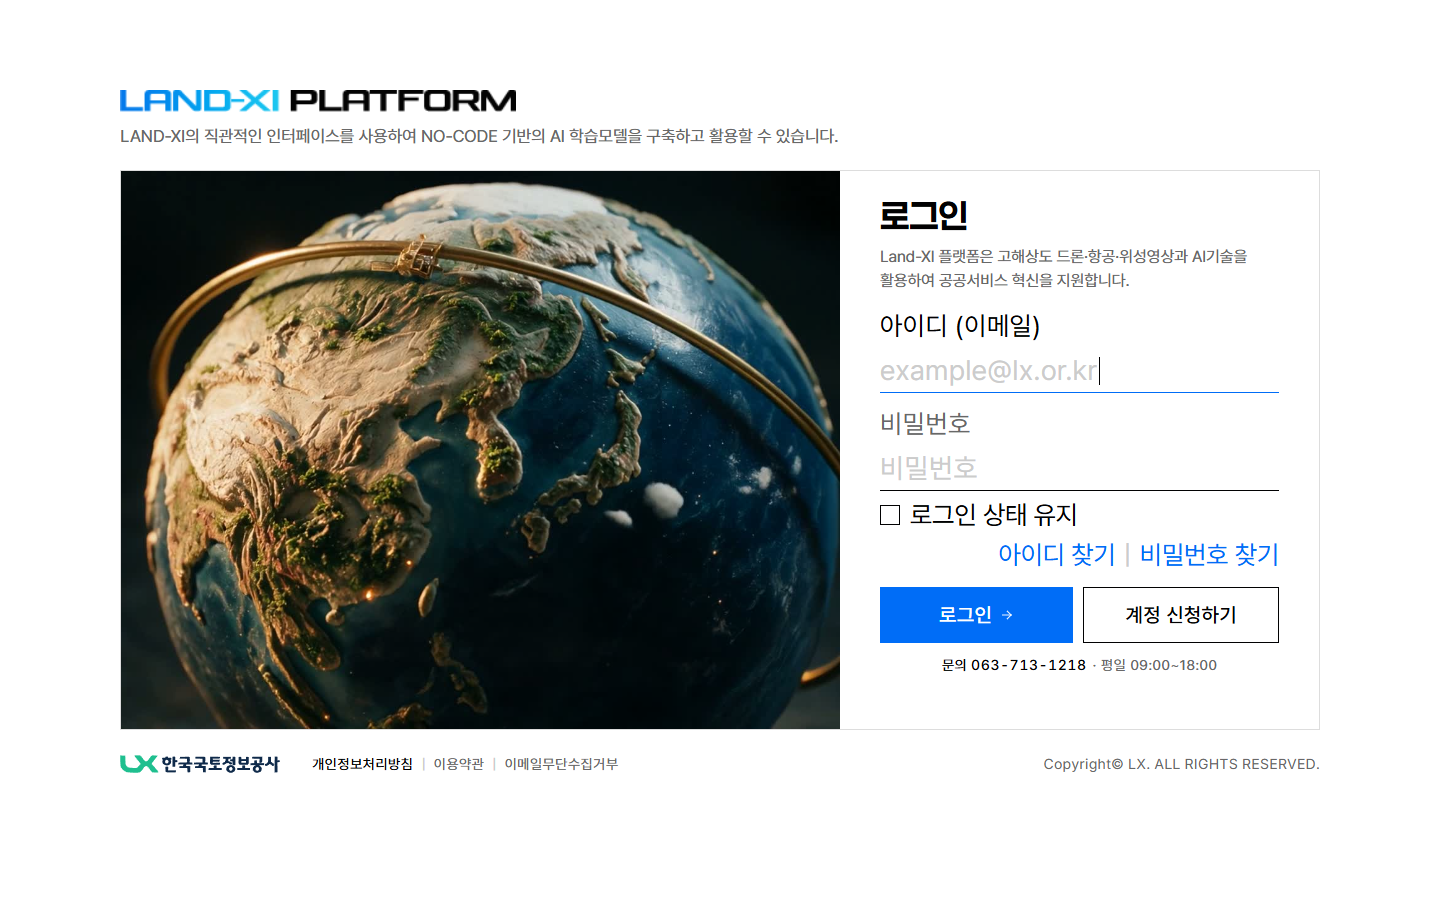
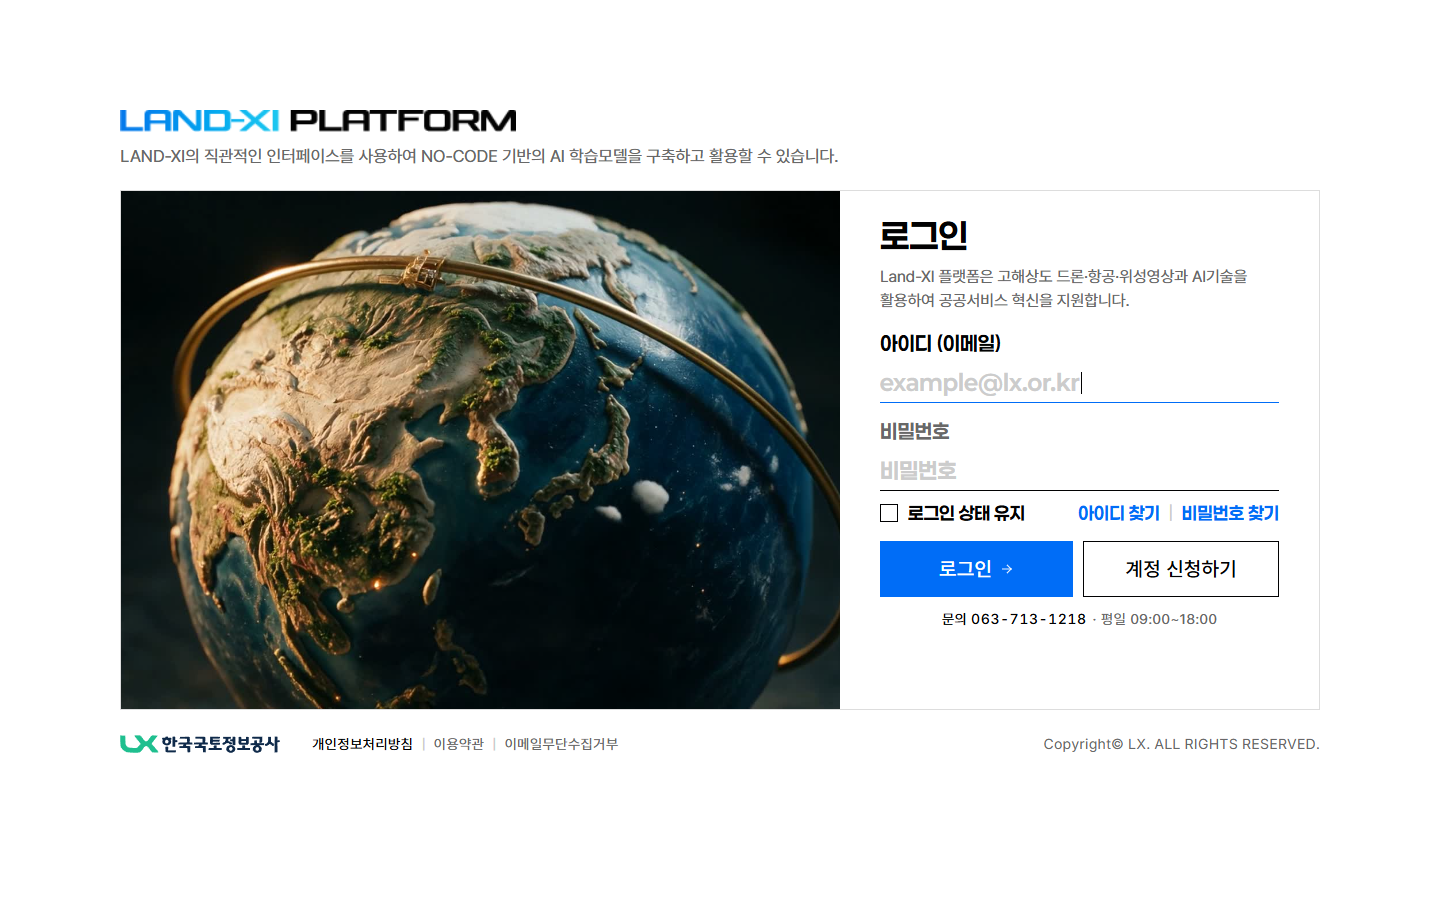
feat(login): 7차 — 폼 글자를 로그인과 같은 Paperlogy 700 으로, 포인트 축소(라벨 20·입력 22·옵션/링크 18)·카드 520
- 라벨 아이디 (이메일)/비밀번호 Pretendard 26 → Paperlogy 700 20/24
- 입력·플레이스홀더 Pretendard 28 → Paperlogy 700 22(높이 44 → 40, 포커스 룰 top 71)
- 로그인 상태 유지 · 아이디 찾기 | 비밀번호 찾기 26 → Paperlogy 700 18/24 — 399 폭 한 줄(옵션 줄 2줄 → 1줄), 체크 박스 18
- 제목 로그인 34 · 버튼 Pretendard 20/56 그대로
- 카드 1200×560 → 520(y 190–710 중앙 유지 · 1920×1200 y 340 · 1024 960×520), 우 패널 예산 438/518
- 마스터 B5-Login.dc.html + renders/B5-Login.png 갱신, e2e 18건 통과, NOTES §14 7차

Claude-Session: https://claude.ai/code/session_01WM9MJXSpdbCfwY8af3obk9

Changed region(s): [[0.0625, 0.0933, 0.9062, 0.8711], [0.7188, 0.8089, 0.9062, 0.8711]]

diff --git a/landxi/proto/login.css b/landxi/proto/login.css
@@ -1,8 +1,8 @@
-/* Land-XI 로그인 — 마스터 design-canvas/v2/B5-Login.dc.html (NOTES §14 · 5차 개정).
-   구 랜드XI(login.do)의 구도만 가져온다: 페이지 중앙의 작은 카드 하나(1200×560, 1440×900 에서 x 120–1320 · y 170–730),
-   좌 60% = 디오라마 오프닝 필름(Leg 01, 글자 0) · 우 40% = 로그인 제목 + 소개 한 문장 + 폼(6차: 라벨·입력·옵션·링크 글자 2배). 카드 위 = Land-XI CI + 원본 소개 한 줄,
+/* Land-XI 로그인 — 마스터 design-canvas/v2/B5-Login.dc.html (NOTES §14 · 7차 개정).
+   구 랜드XI(login.do)의 구도만 가져온다: 페이지 중앙의 작은 카드 하나(1200×520, 1440×900 에서 x 120–1320 · y 190–710),
+   좌 60% = 디오라마 오프닝 필름(Leg 01, 글자 0) · 우 40% = 로그인 제목 + 소개 한 문장 + 폼(7차: 라벨·입력·옵션·링크 = 로그인과 같은 Paperlogy 700, 포인트 20/22/18). 카드 위 = Land-XI CI + 원본 소개 한 줄,
    카드 아래 = LX 락업 + 정책 링크 + Copyright. 원본의 어두운 배경/글로우는 가져오지 않는다.
-   서체(발주 결정 2026-08-27): 표시 Paperlogy 700 / 본문·라벨·버튼 Pretendard / 숫자 Inter tabular · 헤어라인 #DDD · radius 0 · shadow 0 · 12px 바닥.
+   서체(발주 결정 2026-08-27): 표시 Paperlogy 700 / 본문·버튼 Pretendard / 숫자 Inter tabular. 7차: 폼 라벨·입력·옵션·링크도 Paperlogy 700(로그인 제목과 같은 서체) · 헤어라인 #DDD · radius 0 · shadow 0 · 12px 바닥.
    톤 T3 흑+청(5차, 발주 "검정과 파란색의 배합"): 액센트 #006DF7 = 워드마크 Land-XI · 로그인 CTA 채움(로그인 예외) · 포커스 밑줄 · 찾기 링크 · 체크. 나머지 잉크/회색. 그라디언트·그림자·radius 0.
 
    프리미티브는 system.css 에서 온다: .lx-skip · .lx-num · [--lx-*] 토큰.
@@ -10,7 +10,7 @@
 
 :root{
   --lg-card-w:1200px;
-  --lg-card-h:560px;            /* 5차 440 → 480, 6차: 폼 글자 2배로 480 → 560 */
+  --lg-card-h:520px;            /* 5차 440 → 480, 6차 560, 7차: 폼 글자 줄여 560 → 520 */
   --lg-gap:24px;                /* 카드 ↔ 위 소개 / 아래 푸터 */
   --lg-pad:40px;                /* 폼 패널 패딩 */
 }
@@ -40,7 +40,7 @@ body.lx{ overflow:hidden; background:var(--lx-paper); color:var(--lx-ink); }
 .lg-brand__ci{ display:block; height:22px; width:auto; }   /* 실제 CI — 브랜드 예외, 공식 그라디언트 그대로 */
 .lg-intro{ margin:12px 0 0; font-size:17px; line-height:24px; letter-spacing:-.005em; color:var(--lx-grey-2); }
 
-/* ── 카드 1200×560 — 헤어라인 1, radius 0, shadow 0 ── */
+/* ── 카드 1200×520 — 헤어라인 1, radius 0, shadow 0 ── */
 .lg-card{
   display:flex; width:100%; height:var(--lg-card-h);
   border:1px solid var(--lx-hair); background:var(--lx-paper);
@@ -50,7 +50,7 @@ body.lx{ overflow:hidden; background:var(--lx-paper); color:var(--lx-ink); }
 .lg-film{ position:relative; flex:0 0 60%; margin:0; min-width:0; overflow:hidden; background:var(--lx-ink); }
 .lg-film__v{ display:block; width:100%; height:100%; object-fit:cover; object-position:50% 50%; }
 
-/* 우 40% — 제목 + 소개 한 문장 + 폼(6차: 글자 2배). 세로 예산 558: 패딩 24 + 제목 42 + 8 + 소개 48(2줄) + 18 + 필드 88×2+10 + 옵션 2+72(2줄) + 16 + 버튼 56 + 14 + 문의 16 = 502(바닥 여백 56 · 에러 2줄 +44−16 = 530, 여백 28) */
+/* 우 40% — 제목 + 소개 한 문장 + 폼(7차: Paperlogy 20/22/18). 세로 예산 518: 패딩 24 + 제목 42 + 8 + 소개 48(2줄) + 18 + 필드 78×2+10 + 옵션 6+24(1줄) + 16 + 버튼 56 + 14 + 문의 16 = 438(바닥 여백 80 · 에러 2줄 +44−16 = 466, 여백 52) */
 .lg-panel{ position:relative; flex:0 0 40%; min-width:0; padding:24px var(--lg-pad) 0; }
 .lg-h1{ margin:0; font-family:var(--font-display); font-weight:700; font-size:34px; line-height:42px; letter-spacing:-.02em; }
 /* 로그인 바로 아래 — 상시 소개 한 문장(구 ?logout 배너 자리). Pretendard 16 회색, keep-all, 399 폭에서 2줄. */
@@ -59,17 +59,17 @@ body.lx{ overflow:hidden; background:var(--lx-paper); color:var(--lx-ink); }
 /* ── 폼 — 밑줄 필드(박스 0). 포커스 = 밑줄이 액센트로 그어진다. ───────────── */
 .lg-form{ margin-top:18px; }
 .lx-field{ position:relative; padding-bottom:6px; margin-bottom:10px; }
-.lx-field__label{ display:block; font-size:26px; line-height:30px; letter-spacing:.01em; color:var(--lx-grey-2); }   /* 6차: 13→26(2배) */
+.lx-field__label{ display:block; font-family:var(--font-display); font-weight:700; font-size:20px; line-height:24px; letter-spacing:-.01em; color:var(--lx-grey-2); }   /* 7차: Paperlogy 700 20(6차 Pretendard 26) */
 .lx-field.is-focus .lx-field__label{ color:var(--lx-ink); }
 .lx-field__input{
-  display:block; width:100%; margin-top:8px; height:44px; padding:0; border:0; border-radius:0;
+  display:block; width:100%; margin-top:8px; height:40px; padding:0; border:0; border-radius:0;
   border-bottom:1px solid var(--lx-ink); background:transparent; color:var(--lx-ink);
-  font-family:var(--lx-body); font-size:28px; letter-spacing:.01em; outline:none;   /* 6차: 입력·플레이스홀더 28(2배) */
+  font-family:var(--font-display); font-weight:700; font-size:22px; letter-spacing:-.01em; outline:none;   /* 7차: 입력·플레이스홀더 Paperlogy 700 22(6차 Pretendard 28) */
 }
 .lx-field__input::placeholder{ color:var(--lx-grey); }
 .lx .lx-field__input:focus-visible{ outline:none; }
 .lx-field__rule{
-  position:absolute; left:0; right:100%; top:81px; height:1px;   /* 라벨 30 + 8 + 입력 44 − 1 */
+  position:absolute; left:0; right:100%; top:71px; height:1px;   /* 라벨 24 + 8 + 입력 40 − 1 */
   background:var(--lx-accent); transition:right var(--lx-hover) var(--lx-hover-ease);
 }
 .lx-field.is-focus .lx-field__rule{ right:0; }
@@ -81,17 +81,17 @@ body.lx{ overflow:hidden; background:var(--lx-paper); color:var(--lx-ink); }
 .lx-field.is-error{ margin-bottom:2px; }   /* 에러 줄(22)이 들어오면 필드 간격을 줄여 카드 안에서 끝나게 */
 .lx-field__msg::before{ content:""; width:6px; height:6px; background:var(--lx-ink); flex:none; }
 
-.lg-opts{ display:flex; flex-wrap:wrap; align-items:center; row-gap:8px; margin-top:2px; }   /* 6차: 26px 글자는 399 폭에 한 줄로 안 들어가 두 줄로 감싼다(찾기 링크는 우측) */
-.lx-check{ display:inline-flex; align-items:center; gap:10px; cursor:pointer; font-size:26px; line-height:32px; letter-spacing:-.01em; position:relative; }
+.lg-opts{ display:flex; flex-wrap:wrap; align-items:center; row-gap:8px; margin-top:6px; }   /* 7차: 18px 는 399 폭에 한 줄(상태 유지 좌 · 찾기 링크 우). 좁은 폭에서만 감싼다 */
+.lx-check{ display:inline-flex; align-items:center; gap:10px; cursor:pointer; font-family:var(--font-display); font-weight:700; font-size:18px; line-height:24px; letter-spacing:-.01em; position:relative; }   /* 7차: Paperlogy 700 18 */
 .lx-check input{ position:absolute; opacity:0; width:0; height:0; }
-.lx-check__box{ width:20px; height:20px; border:1px solid var(--lx-ink); flex:none; }
+.lx-check__box{ width:18px; height:18px; border:1px solid var(--lx-ink); flex:none; }
 .lx-check input:checked + .lx-check__box{ background:var(--lx-accent); border-color:var(--lx-accent); }   /* 체크 = 액센트 */
 .lx-check input:focus-visible + .lx-check__box{ outline:1px solid var(--lx-accent); outline-offset:2px; }
 .lg-find{ margin-left:auto; display:flex; align-items:center; gap:8px; }
-.lg-find__a{ font-size:26px; line-height:32px; letter-spacing:-.01em; color:var(--lx-accent); text-decoration:none; border-bottom:1px solid transparent; transition:border-color var(--lx-hover) var(--lx-hover-ease); }   /* 찾기 링크 = 액센트 */
+.lg-find__a{ font-family:var(--font-display); font-weight:700; font-size:18px; line-height:24px; letter-spacing:-.01em; color:var(--lx-accent); text-decoration:none; border-bottom:1px solid transparent; transition:border-color var(--lx-hover) var(--lx-hover-ease); }   /* 찾기 링크 = 액센트 */
 .lg-find__a:hover{ border-bottom-color:var(--lx-accent); }
 .lg-sep{ font-size:14px; color:var(--lx-grey); }
-.lg-find .lg-sep{ font-size:26px; line-height:32px; }
+.lg-find .lg-sep{ font-size:18px; line-height:24px; }
 
 /* 버튼 2 나란히 — 로그인(액센트 채움 — 로그인 페이지의 유일한 색 채움 CTA, NOTES §14 로그인 예외) · 계정 신청하기(헤어라인 잉크) */
 .lg-actions{ display:flex; gap:10px; margin-top:16px; }
@@ -130,10 +130,9 @@ body.lx{ overflow:hidden; background:var(--lx-paper); color:var(--lx-ink); }
   .lx-field__rule,.lg-submit svg,.lg-find__a,.lg-signup__a{ transition:none; }
 }
 
-/* ── <1280 — 카드가 100%−64 로 줄어든다(비율 60/40 유지). 우 패널 ≈300 폭 — 옵션 줄 글자만 20 으로 ── */
+/* ── <1280 — 카드가 100%−64 로 줄어든다(비율 60/40 유지). 우 패널 ≈300 폭 — 옵션 줄이 두 줄로 감싼다(글자 그대로 18) ── */
 @media (max-width: 1279px){
   .lg-wrap{ width:calc(100% - 64px); }
-  .lx-check,.lg-find__a,.lg-find .lg-sep{ font-size:20px; line-height:26px; }
 }
 
 /* ── <900 — 세로 스택: 소개 → 필름 → 폼 → 푸터 ── */

diff --git a/design-canvas/v2/B5-Login.dc.html b/design-canvas/v2/B5-Login.dc.html
@@ -10,7 +10,7 @@
 <helmet><style>
 @import url("https://cdn.jsdelivr.net/gh/orioncactus/pretendard@v1.3.9/dist/web/static/pretendard.min.css");
 @import url("https://fonts.googleapis.com/css2?family=Inter:wght@400;500&display=swap");
-/* Paperlogy + Pretendard, T3 (발주 결정 2026-08-27) — 표시 Paperlogy 700, 본문/라벨/버튼 Pretendard */
+/* Paperlogy + Pretendard, T3 (발주 결정 2026-08-27) — 표시 Paperlogy 700, 본문/버튼 Pretendard. 7차: 로그인 폼(라벨·입력·옵션·링크)도 로그인 제목과 같은 Paperlogy 700, 포인트는 6차보다 줄임 */
 @font-face{font-family:'Paperlogy';font-weight:800;font-display:swap;src:url('https://fastly.jsdelivr.net/gh/projectnoonnu/2408-3@1.0/Paperlogy-8ExtraBold.woff2') format('woff2')}
 @font-face{font-family:'Paperlogy';font-weight:700;font-display:swap;src:url('https://fastly.jsdelivr.net/gh/projectnoonnu/2408-3@1.0/Paperlogy-7Bold.woff2') format('woff2')}
 *{box-sizing:border-box}
@@ -20,31 +20,31 @@ body{margin:0;background:#FFFFFF;color:#010102;font-family:'Pretendard','Paperlo
 .n{font-family:'Inter',system-ui,sans-serif;font-weight:400;font-variant-numeric:tabular-nums;font-feature-settings:'tnum' 1}
 .n5{font-family:'Inter',system-ui,sans-serif;font-weight:500;font-variant-numeric:tabular-nums;font-feature-settings:'tnum' 1}
 .kb{font-size:14px;line-height:1.2;letter-spacing:.04em;color:#686868}
-.fld-l{font-size:26px;line-height:30px;letter-spacing:.01em;color:#686868}
-.fld{margin-top:8px;height:44px;border-bottom:1px solid #010102;display:flex;align-items:center;font-size:28px;letter-spacing:.01em}
-.link{font-size:26px;line-height:32px;color:#010102;letter-spacing:-.01em}
+.fld-l{font-family:'Paperlogy','Pretendard',system-ui,sans-serif;font-weight:700;font-size:20px;line-height:24px;letter-spacing:-.01em;color:#686868}
+.fld{margin-top:8px;height:40px;border-bottom:1px solid #010102;display:flex;align-items:center;font-family:'Paperlogy','Pretendard',system-ui,sans-serif;font-weight:700;font-size:22px;letter-spacing:-.01em}
+.link{font-family:'Paperlogy','Pretendard',system-ui,sans-serif;font-weight:700;font-size:18px;line-height:24px;color:#010102;letter-spacing:-.01em}
 .sep{font-size:14px;color:#CCCCCC}
-.sep26{font-size:26px;line-height:32px;color:#CCCCCC}
+.sep18{font-size:18px;line-height:24px;color:#CCCCCC}
 </style></helmet>
 <div style="width:1440px;height:900px;position:relative;overflow:hidden;background:#FFFFFF;font-family:'Pretendard','Paperlogy',system-ui,sans-serif;color:#010102">
 
-<!-- 6차 개정 — 구 랜드XI(login.do) 구도: 페이지 중앙의 작은 카드 하나(1200×560, x 120–1320 · y 170–730 = 세로 중앙),
-     좌 60% 필름 판(글자 0), 우 40% = 로그인 제목 → 소개 한 문장(상시) → 폼(라벨·입력·옵션·링크 글자 2배). 우 패널의 `Land-XI 플랫폼` 제목은 삭제. 카드 위 = 실제 Land-XI CI + 원본 소개 한 줄, 카드 아래 = LX 락업 + 정책 링크 + Copyright.
+<!-- 7차 개정 — 구 랜드XI(login.do) 구도: 페이지 중앙의 작은 카드 하나(1200×520, x 120–1320 · y 190–710 = 세로 중앙),
+     좌 60% 필름 판(글자 0), 우 40% = 로그인 제목 → 소개 한 문장(상시) → 폼(라벨·입력·옵션·링크 = 로그인과 같은 Paperlogy 700, 포인트 20/22/18). 우 패널의 `Land-XI 플랫폼` 제목은 삭제. 카드 위 = 실제 Land-XI CI + 원본 소개 한 줄, 카드 아래 = LX 락업 + 정책 링크 + Copyright.
      헤어라인 #DDD 1 · radius 0 · shadow 0. 흑+청 배합(발주 5차): 액센트 #006DF7 = 워드마크 Land-XI · 로그인 CTA 채움(로그인 예외) · 포커스 밑줄 · 찾기 링크 · 체크. 나머지 잉크/회색. -->
 
 <!-- 카드 위 — CI 22 + 소개 한 줄(원본 카피) -->
-<img src="ci-landxi.png" alt="LAND-XI PLATFORM" style="position:absolute;left:120px;top:90px;height:22px;width:auto;display:block">
-<div style="position:absolute;left:120px;top:124px;width:1200px;font-size:17px;line-height:24px;letter-spacing:-.005em;color:#686868">LAND-XI의 직관적인 인터페이스를 사용하여 NO-CODE 기반의 AI 학습모델을 구축하고 활용할 수 있습니다.</div>
+<img src="ci-landxi.png" alt="LAND-XI PLATFORM" style="position:absolute;left:120px;top:110px;height:22px;width:auto;display:block">
+<div style="position:absolute;left:120px;top:144px;width:1200px;font-size:17px;line-height:24px;letter-spacing:-.005em;color:#686868">LAND-XI의 직관적인 인터페이스를 사용하여 NO-CODE 기반의 AI 학습모델을 구축하고 활용할 수 있습니다.</div>
 
-<!-- 카드 1200×560 -->
-<div style="position:absolute;left:120px;top:170px;width:1200px;height:560px;border:1px solid #DDDDDD;display:flex;background:#FFFFFF">
+<!-- 카드 1200×520 -->
+<div style="position:absolute;left:120px;top:190px;width:1200px;height:520px;border:1px solid #DDDDDD;display:flex;background:#FFFFFF">
 
   <!-- 좌 60% — Leg 01 필름 판. 글자·캡션·브래킷 0 -->
   <div style="position:relative;flex:0 0 60%;height:100%;overflow:hidden;background:#010102">
     <img src="login-film.jpg" alt="" style="display:block;width:100%;height:100%;object-fit:cover;object-position:50% 50%">
   </div>
 
-  <!-- 우 40% — 제목 + 소개 한 문장 + 폼(패딩 28/40). 세로 예산 558: 24+42+8+48(2줄)+18+88+10+88+2+72(2줄)+16+56+14+16 = 502 -->
+  <!-- 우 40% — 제목 + 소개 한 문장 + 폼(패딩 24/40). 세로 예산 518: 24+42+8+48(2줄)+18+72+16+72+10+24(1줄)+16+56+14+16 = 436 -->
   <div style="position:relative;flex:0 0 40%;height:100%;padding:24px 40px 0">
     <div class="d" style="font-size:34px;line-height:42px;letter-spacing:-.02em">로그인</div>
     <!-- 로그인 바로 아래 — 상시 소개 한 문장(구 ?logout 배너 자리). Pretendard 16 회색, keep-all -->
@@ -53,20 +53,20 @@ body{margin:0;background:#FFFFFF;color:#010102;font-family:'Pretendard','Paperlo
     <!-- 아이디, 포커스: 밑줄 = 액센트 -->
     <div style="margin-top:18px">
       <div class="fld-l" style="color:#010102">아이디 (이메일)</div>
-      <div class="fld" style="border-bottom:1px solid #006DF7"><div style="color:#CCCCCC">example@lx.or.kr</div><div style="width:1px;height:28px;background:#010102;margin-left:2px"></div></div>
+      <div class="fld" style="border-bottom:1px solid #006DF7"><div style="color:#CCCCCC">example@lx.or.kr</div><div style="width:1px;height:22px;background:#010102;margin-left:2px"></div></div>
     </div>
     <div style="margin-top:16px">
       <div class="fld-l">비밀번호</div>
       <div class="fld"><div style="color:#CCCCCC">비밀번호</div></div>
     </div>
 
-    <!-- 옵션 — 26px 는 399 폭에 한 줄로 안 들어가 두 줄: 상태 유지(좌) / 찾기 링크(우) -->
-    <div style="margin-top:8px;display:flex;align-items:center">
-      <div style="width:20px;height:20px;border:1px solid #010102;margin-right:10px"></div>
+    <!-- 옵션 — 18px 는 399 폭에 한 줄: 상태 유지(좌) · 찾기 링크(우) -->
+    <div style="margin-top:10px;display:flex;align-items:center">
+      <div style="width:18px;height:18px;border:1px solid #010102;margin-right:10px"></div>
       <div class="link">로그인 상태 유지</div>
-    </div>
-    <div style="margin-top:8px;display:flex;align-items:center;justify-content:flex-end;gap:8px">
-      <div class="link" style="color:#006DF7">아이디 찾기</div><div class="sep26">|</div><div class="link" style="color:#006DF7">비밀번호 찾기</div>
+      <div style="margin-left:auto;display:flex;align-items:center;gap:8px">
+        <div class="link" style="color:#006DF7">아이디 찾기</div><div class="sep18">|</div><div class="link" style="color:#006DF7">비밀번호 찾기</div>
+      </div>
     </div>
 
     <!-- 버튼 2 나란히: 로그인(액센트 채움 — 로그인 예외) · 계정 신청하기(헤어라인 잉크) — 원본의 로그인 · 회원가입 자리. 56 / 글자 20 -->
@@ -86,7 +86,7 @@ body{margin:0;background:#FFFFFF;color:#010102;font-family:'Pretendard','Paperlo
 </div>
 
 <!-- 카드 아래 — LX 락업 18 + 정책 링크 3 + Copyright -->
-<div style="position:absolute;left:120px;top:754px;width:1200px;display:flex;align-items:center;white-space:nowrap">
+<div style="position:absolute;left:120px;top:734px;width:1200px;display:flex;align-items:center;white-space:nowrap">
   <img src="ci-lx-lockup.svg" alt="LX 한국국토정보공사" style="display:block;height:18px;width:auto">
   <div style="display:flex;gap:8px;align-items:baseline;margin-left:32px">
     <div class="kb" style="color:#010102">개인정보처리방침</div><div class="sep">|</div><div class="kb">이용약관</div><div class="sep">|</div><div class="kb">이메일무단수집거부</div>

diff --git a/landxi/proto/login.html b/landxi/proto/login.html
@@ -9,8 +9,8 @@
 
 <a class="lx-skip" href="#loginForm">본문 건너뛰기</a>
 
-<!-- 마스터: design-canvas/v2/B5-Login.dc.html (NOTES §14 · 6차 개정) — 구 랜드XI(login.do) 구도.
-     페이지 중앙의 작은 카드 하나(1200×560): 좌 60% 필름 판(글자 0) · 우 40% 폼(로그인 → 소개 한 문장 → 필드 → 버튼). 6차: 폼 글자 2배.
+<!-- 마스터: design-canvas/v2/B5-Login.dc.html (NOTES §14 · 7차 개정) — 구 랜드XI(login.do) 구도.
+     페이지 중앙의 작은 카드 하나(1200×520): 좌 60% 필름 판(글자 0) · 우 40% 폼(로그인 → 소개 한 문장 → 필드 → 버튼). 7차: 폼 글자 = 로그인과 같은 Paperlogy 700, 포인트 20/22/18.
      흑 + 청 배합(5차): 워드마크 Land-XI · 로그인 CTA 채움 · 포커스 밑줄 · 찾기 링크 · 체크 = 액센트 #006DF7, 나머지 잉크/회색.
      카드 위 = 실제 Land-XI CI + 원본 소개 한 줄 · 카드 아래 = LX 락업 + 정책 링크 + Copyright. -->
 <div class="lg" id="lg">
